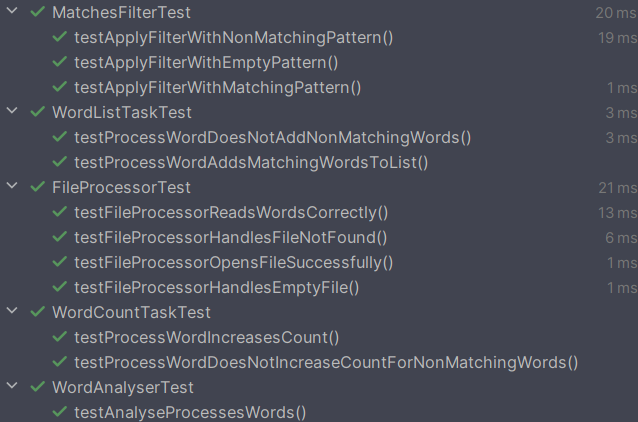
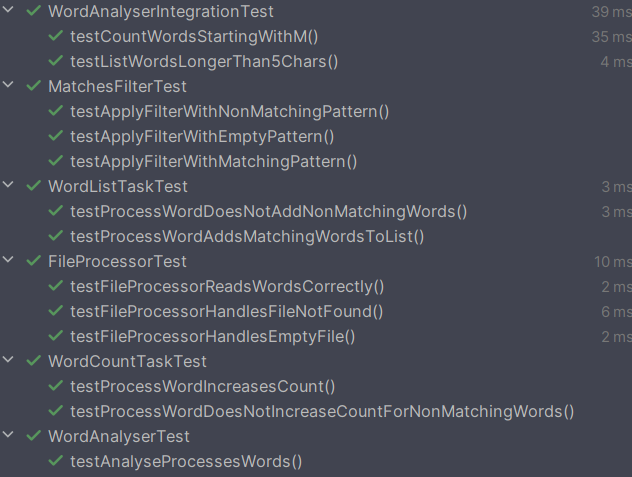
Added Integration Test. Updated README.md
Adde Integration test. Fixed Unit Test not deleting test.txt file. updated readme.md

diff --git a/src/test/java/org/csg/WordAnalyserIntegrationTest.java b/src/test/java/org/csg/WordAnalyserIntegrationTest.java
@@ -1,0 +1,107 @@
+package org.csg;
+
+import org.csg.analysis.WordAnalysisTask;
+import org.csg.analysis.WordCountTask;
+import org.csg.analysis.WordListTask;
+import org.csg.filters.Filter;
+import org.csg.filters.MatchesFilter;
+import org.junit.jupiter.api.Test;
+import org.junit.jupiter.api.AfterEach;
+
+import java.io.IOException;
+import java.io.PrintWriter;
+import java.util.LinkedList;
+import java.io.File;
+
+import static org.junit.jupiter.api.Assertions.assertEquals;
+import static org.junit.jupiter.api.Assertions.assertTrue;
+
+public class WordAnalyserIntegrationTest {
+
+    private static final String SOURCE_FILE_DIR = "test.txt";
+    private static final String WORD_DELIMITER = "\\s+";
+
+    @AfterEach
+    public void cleanUp() {
+        File file = new File(SOURCE_FILE_DIR);
+        if (file.exists()) {
+            file.delete();
+        }
+    }
+
+    @Test
+    public void testCountWordsStartingWithM() {
+        // Write sample text to the file for testing
+        try (PrintWriter out = new PrintWriter(SOURCE_FILE_DIR)) {
+            out.println("Marco Nadalin likes to watch Seinfeld and also play guitar in his free time. \n" +
+                    "marco's favourite band is the Arctic Monkeys.");
+        } catch (IOException e) {
+            throw new RuntimeException(e);
+        }
+
+        FileProcessor fileProcessor = new FileProcessor(SOURCE_FILE_DIR, WORD_DELIMITER);
+        WordAnalyser wordAnalyser = new WordAnalyser();
+
+        // Create Filters
+        Filter startsWithMFilter = new MatchesFilter(
+                "^[Mm].*",
+                "words that start with m or M"
+        );
+
+        // Create List of Tasks
+        WordCountTask countTask = new WordCountTask(startsWithMFilter);
+        LinkedList<WordAnalysisTask> tasks = new LinkedList<>();
+        tasks.add(countTask);
+
+        // Process and analyse file
+        String currentWord;
+        while((currentWord = fileProcessor.getNextWord()) != null) {
+            wordAnalyser.analyse(tasks, currentWord);
+        }
+
+        // Check result
+        assertEquals(3, countTask.getCount()); // Expecting 4 words starting with M or m
+    }
+
+    @Test
+    public void testListWordsLongerThan5Chars() {
+        // Write sample text to the file for testing
+        try (PrintWriter out = new PrintWriter(SOURCE_FILE_DIR)) {
+            out.println("Marco Nadalin likes to watch Seinfeld and also play guitar in his free time. \n" +
+                    "marco's favourite band is the Arctic Monkeys.");
+        } catch (IOException e) {
+            throw new RuntimeException(e);
+        }
+
+        FileProcessor fileProcessor = new FileProcessor(SOURCE_FILE_DIR, WORD_DELIMITER);
+        WordAnalyser wordAnalyser = new WordAnalyser();
+
+        // Create Filters
+        Filter longerThan5Chars = new MatchesFilter(
+                "^.{6,}$",
+                "words that are greater than 5 characters"
+        );
+
+        // Create List of Tasks
+        WordListTask listTask = new WordListTask(longerThan5Chars);
+        LinkedList<WordAnalysisTask> tasks = new LinkedList<>();
+        tasks.add(listTask);
+
+        // Process and analyse file
+        String currentWord;
+        while((currentWord = fileProcessor.getNextWord()) != null) {
+            wordAnalyser.analyse(tasks, currentWord);
+        }
+
+        // Check result
+        LinkedList<String> filteredWords = listTask.getFilteredWordsList();
+        assertEquals(7, filteredWords.size()); // Expecting 7 words longer than 5 characters
+        assertTrue(filteredWords.contains("Nadalin"));
+        assertTrue(filteredWords.contains("Seinfeld"));
+        assertTrue(filteredWords.contains("guitar"));
+        assertTrue(filteredWords.contains("marco's"));
+        assertTrue(filteredWords.contains("favourite"));
+        assertTrue(filteredWords.contains("Arctic"));
+        assertTrue(filteredWords.contains("Monkeys."));
+    }
+}

diff --git a/src/test/java/org/csg/FileProcessorTest.java b/src/test/java/org/csg/FileProcessorTest.java
@@ -5,20 +5,26 @@ import org.junit.jupiter.api.*;
 import java.io.File;
 import java.io.FileWriter;
 import java.io.IOException;
+import java.io.PrintWriter;
 
 import static org.junit.jupiter.api.Assertions.*;
 
 public class FileProcessorTest {
 
-    private static final String TEST_FILE_DIR = "testFile.txt";
+    private static final String TEST_FILE_DIR = "test.txt";
     private static final String WORD_DELIMITER = "\\s+";
 
     @BeforeAll
     public static void setUp() throws IOException {
         // Create a test file
-        FileWriter writer = new FileWriter(TEST_FILE_DIR);
-        writer.write("word1 word2\nword3\nword4 word5");
-        writer.close();
+        try {
+            FileWriter writer = new FileWriter(TEST_FILE_DIR);
+            writer.write("word1 word2\nword3\nword4 word5");
+            writer.flush();
+            writer.close();
+        } catch (IOException e) {
+            throw new RuntimeException(e);
+        }
     }
 
     @AfterAll
@@ -28,12 +34,6 @@ public class FileProcessorTest {
         if (file.exists()) {
             file.delete();
         }
-    }
-
-    @Test
-    public void testFileProcessorOpensFileSuccessfully() {
-        FileProcessor fileProcessor = new FileProcessor(TEST_FILE_DIR, WORD_DELIMITER);
-        assertNotNull(fileProcessor, "FileProcessor should not be null.");
     }
 
     @Test

diff --git a/README.md b/README.md
@@ -71,4 +71,6 @@ to the user when mis-used.
 3. WordAnalysisTask objects should NOT have a `printResults` method. This should be separated into its own class
 responsible for printing the results of a WordAnalysisTask.
 4. Instead of printing the results to standard output, the results could be saved to an output file instead. 
+5. Sample regex provided to filter words that are greater than 5 characters can be improved to only include letters, 
+not punctuation or numbers
 
